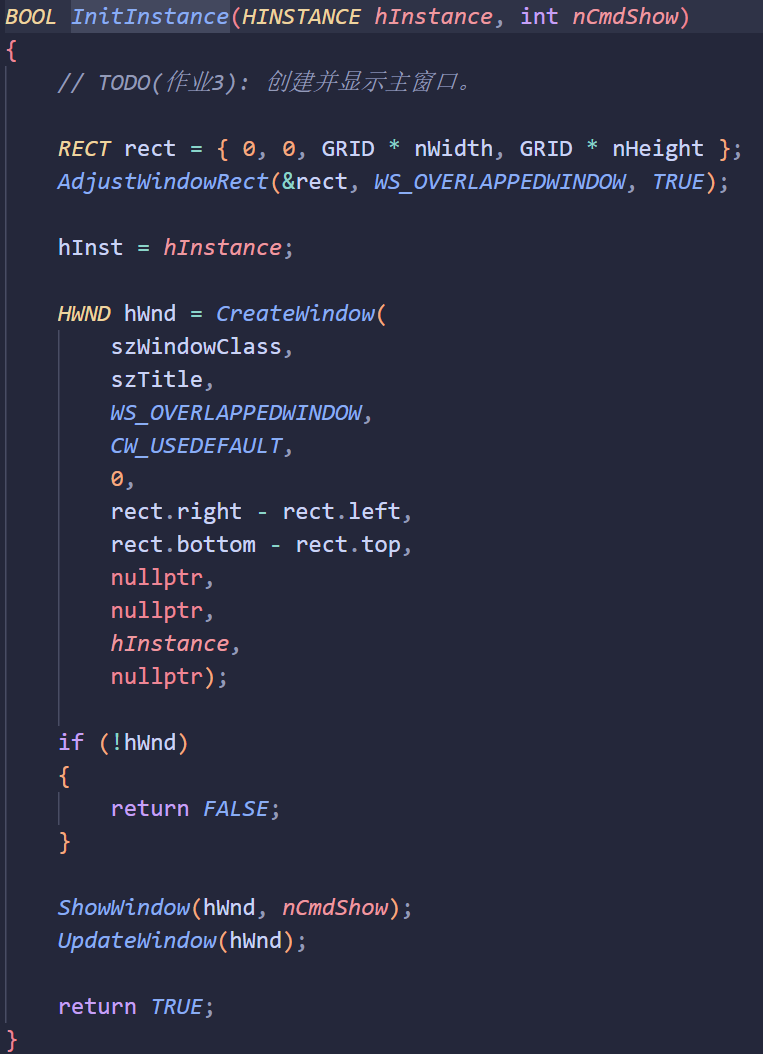
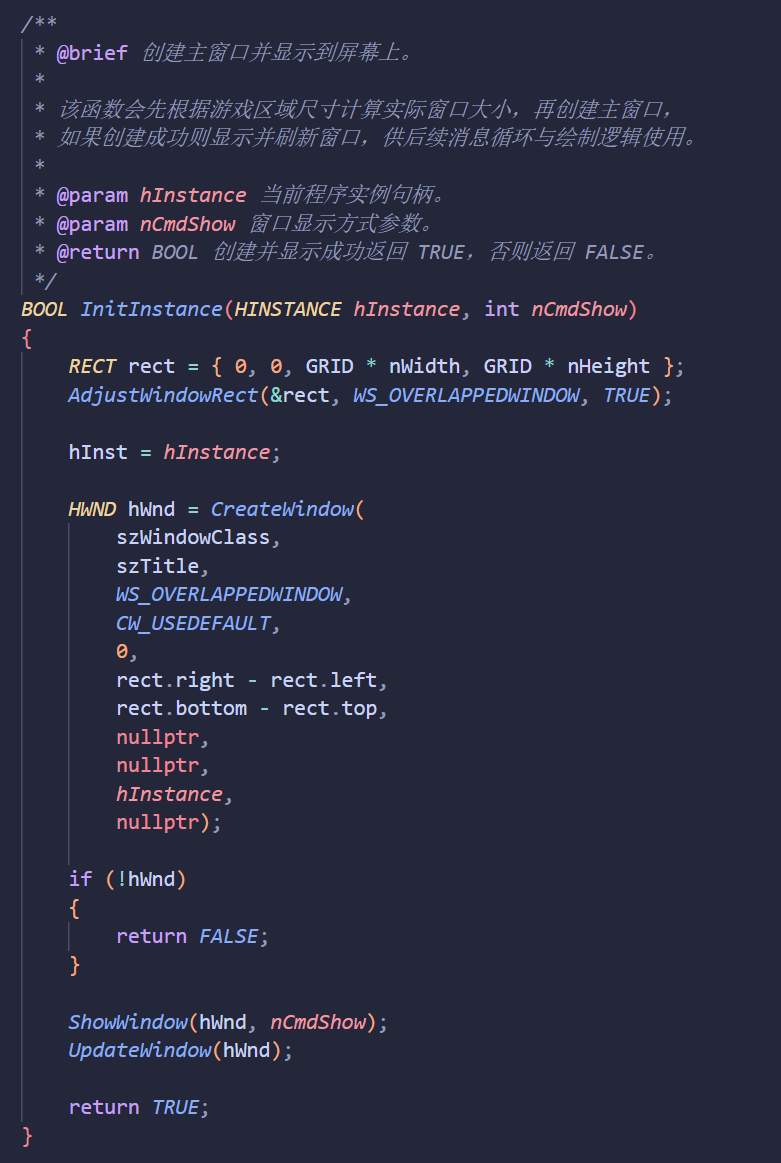
更新图片与注释

diff --git a/src/source/Tetris.cpp b/src/source/Tetris.cpp
@@ -1,5 +1,4 @@
 // Tetris.cpp : 程序入口、窗口初始化与消息处理
-
 #include "stdafx.h"
 #include "Tetris.h"
 
@@ -14,6 +13,14 @@ BOOL                InitInstance(HINSTANCE, int);
 LRESULT CALLBACK    WndProc(HWND, UINT, WPARAM, LPARAM);
 INT_PTR CALLBACK    About(HWND, UINT, WPARAM, LPARAM);
 
+/**
+ * @brief Win32 程序入口函数，负责完成应用启动初始化并进入消息循环。
+ *
+ * 该函数会加载窗口标题与窗口类名称资源，注册窗口类，创建主窗口，
+ * 然后加载快捷键资源并持续分发系统消息，直到程序退出。
+ *
+ * @return int 程序退出时返回消息循环中的退出码。
+ */
 int APIENTRY _tWinMain(HINSTANCE hInstance,
     HINSTANCE hPrevInstance,
     LPTSTR lpCmdLine,
@@ -21,7 +28,7 @@ int APIENTRY _tWinMain(HINSTANCE hInstance,
 {
     UNREFERENCED_PARAMETER(hPrevInstance);
     UNREFERENCED_PARAMETER(lpCmdLine);
-    // TODO(作业1): 补全 Win32 程序入口函数。
+
     LoadString(hInstance, IDS_APP_TITLE, szTitle, MAX_LOADSTRING);
     LoadString(hInstance, IDC_TETRIS, szWindowClass, MAX_LOADSTRING);
     MyRegisterClass(hInstance);
@@ -46,10 +53,17 @@ int APIENTRY _tWinMain(HINSTANCE hInstance,
     return (int)msg.wParam;
 }
 
+/**
+ * @brief 注册主窗口所需的窗口类信息。
+ *
+ * 该函数会设置窗口样式、消息处理函数、图标、光标、背景画刷、
+ * 菜单资源和窗口类名，最后调用系统 API 完成注册。
+ *
+ * @param hInstance 当前程序实例句柄。
+ * @return ATOM 注册成功时返回窗口类原子值，失败时返回 0。
+ */
 ATOM MyRegisterClass(HINSTANCE hInstance)
 {
-    // TODO(作业2): 注册窗口类。
-    UNREFERENCED_PARAMETER(hInstance);
     WNDCLASSEX wcex;
 
     wcex.cbSize = sizeof(WNDCLASSEX);
@@ -68,10 +82,18 @@ ATOM MyRegisterClass(HINSTANCE hInstance)
     return RegisterClassEx(&wcex);
 }
 
+/**
+ * @brief 创建主窗口并显示到屏幕上。
+ *
+ * 该函数会先根据游戏区域尺寸计算实际窗口大小，再创建主窗口，
+ * 如果创建成功则显示并刷新窗口，供后续消息循环与绘制逻辑使用。
+ *
+ * @param hInstance 当前程序实例句柄。
+ * @param nCmdShow 窗口显示方式参数。
+ * @return BOOL 创建并显示成功返回 TRUE，否则返回 FALSE。
+ */
 BOOL InitInstance(HINSTANCE hInstance, int nCmdShow)
 {
-    // TODO(作业3): 创建并显示主窗口。
-    
     RECT rect = { 0, 0, GRID * nWidth, GRID * nHeight };
     AdjustWindowRect(&rect, WS_OVERLAPPEDWINDOW, TRUE);
 
@@ -101,9 +123,20 @@ BOOL InitInstance(HINSTANCE hInstance, int nCmdShow)
     return TRUE;
 }
 
+/**
+ * @brief 主窗口消息处理函数，负责响应菜单、绘制和退出等系统消息。
+ *
+ * 当前阶段主要处理“关于”和“退出”菜单命令、窗口重绘请求以及销毁消息，
+ * 其余未处理的消息统一交给系统默认窗口过程继续处理。
+ *
+ * @param hWnd 当前窗口句柄。
+ * @param message 当前接收到的消息类型。
+ * @param wParam 消息附带的参数 1。
+ * @param lParam 消息附带的参数 2。
+ * @return LRESULT 消息处理结果。
+ */
 LRESULT CALLBACK WndProc(HWND hWnd, UINT message, WPARAM wParam, LPARAM lParam)
 {
-    // TODO(作业4): 补全主窗口消息处理函数。
     switch (message)
     {
     case WM_COMMAND:
@@ -141,11 +174,22 @@ LRESULT CALLBACK WndProc(HWND hWnd, UINT message, WPARAM wParam, LPARAM lParam)
     return 0;
 }
 
+/**
+ * @brief “关于”对话框的消息处理函数。
+ *
+ * 该函数用于初始化关于对话框，并处理用户点击“确定”或“取消”时的关闭操作。
+ * 对于未处理的对话框消息，返回 FALSE 交由系统继续处理。
+ *
+ * @param hDlg 对话框窗口句柄。
+ * @param message 当前接收到的对话框消息类型。
+ * @param wParam 消息附带的参数 1。
+ * @param lParam 消息附带的参数 2。
+ * @return INT_PTR 消息已处理返回 TRUE，否则返回 FALSE。
+ */
 INT_PTR CALLBACK About(HWND hDlg, UINT message, WPARAM wParam, LPARAM lParam)
 {
     UNREFERENCED_PARAMETER(lParam);
-    // TODO(作业5): 补全“关于”对话框的消息处理。
-    UNREFERENCED_PARAMETER(hDlg);
+
     switch (message)
     {
     case WM_INITDIALOG:
